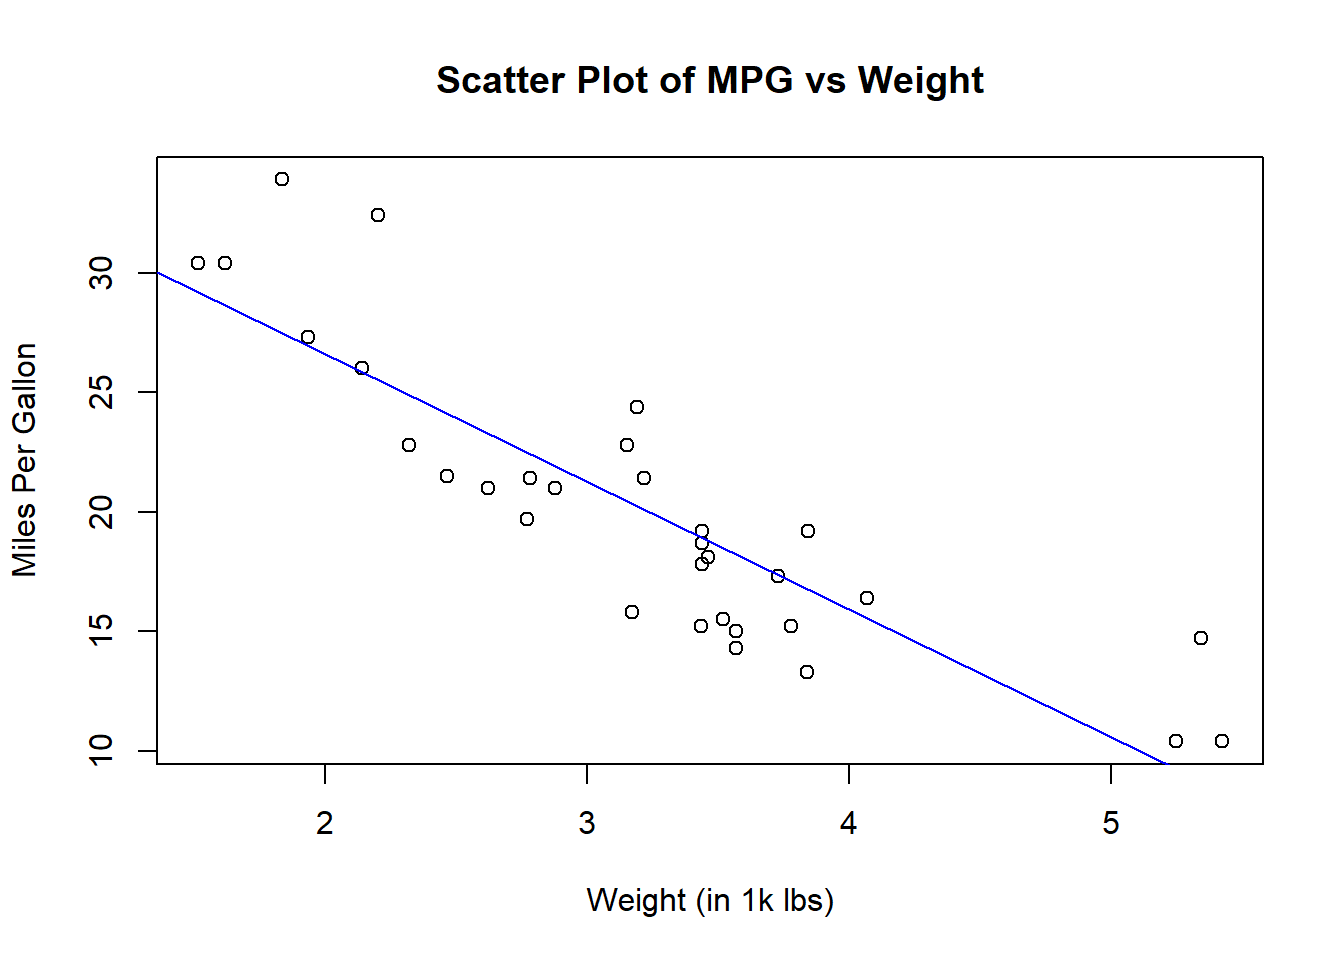
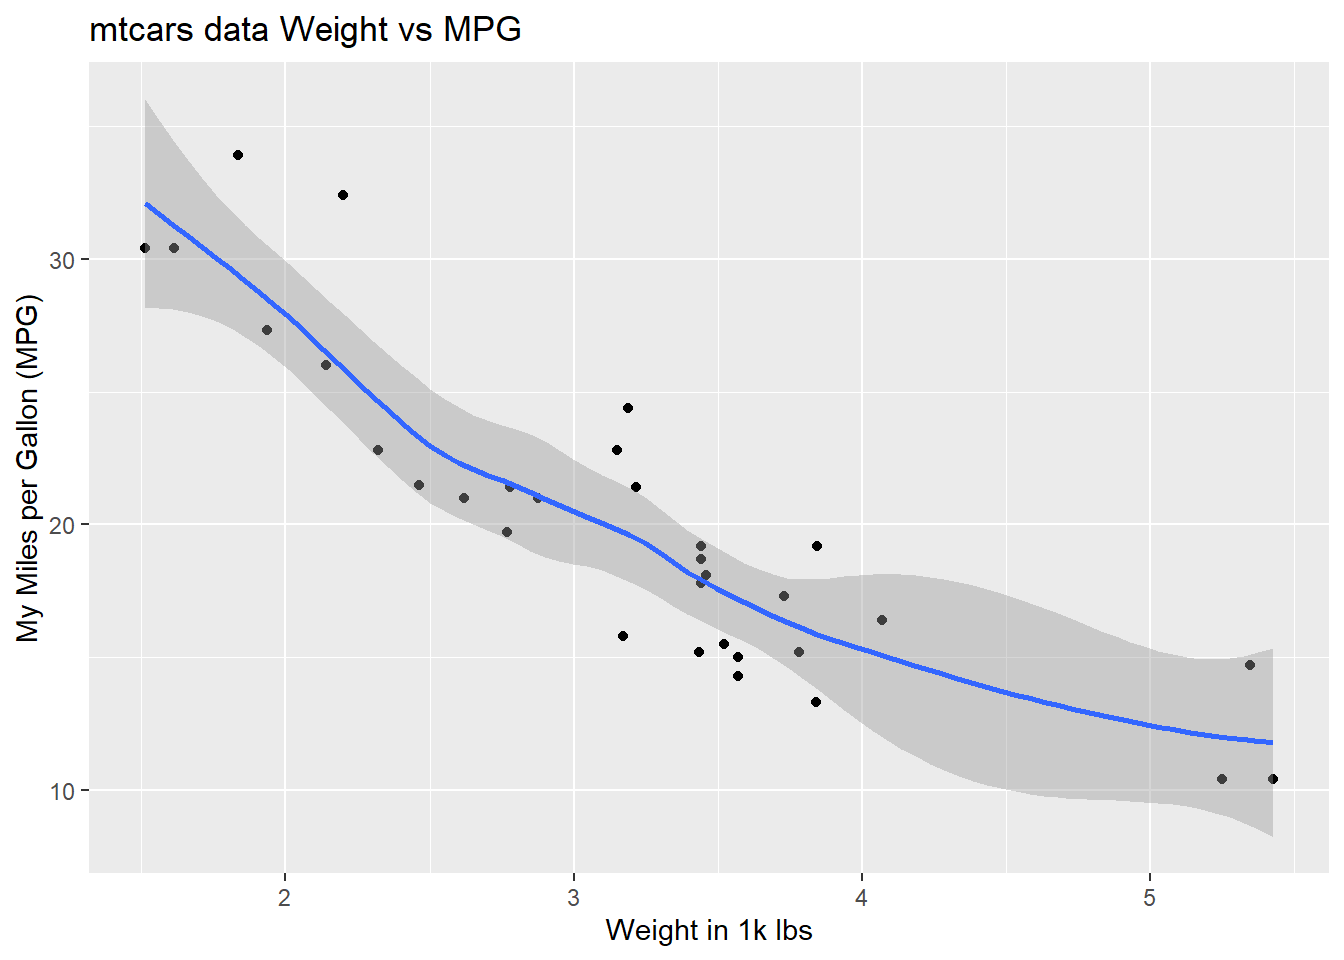
updating blog and various formatting

diff --git a/_site/posts/Starting with EDA/index.html b/_site/posts/Starting with EDA/index.html
@@ -191,32 +191,34 @@ pre > code.sourceCode > span > a:first-child::before { text-decoration: underlin
 
 
 
-<p>Here, you can see common Exploratory Data Analysis functions used to understand various datasets. We will use the preloaded “mtcars” dataset that is already installed with R Studio.</p>
+<p>Here, you can see common Exploratory Data Analysis functions used to understand a datasets. We will use the preloaded “mtcars” dataset that is already installed with R Studio.</p>
 <p>The “mtcars” dataset is comprised of 32 automobile models for the year 1973 -1974 with charactersits such as fuel consumption, horsepower and much more (1974 US Motor Trend magazine).</p>
-<p>It is always best practice to load your libraries upfront, we will use ggplot2 for visualizations and</p>
+<p><strong>Best Practices</strong></p>
+<p>It is always best practice to load your libraries upfront, we will use ggplot2 for visualizations. The comment (# or hashtag) should be used to help document workflows and explain code in more detail</p>
 <div class="cell">
-<div class="sourceCode cell-code" id="cb1"><pre class="sourceCode r code-with-copy"><code class="sourceCode r"><span id="cb1-1"><a href="#cb1-1" aria-hidden="true" tabindex="-1"></a><span class="fu">library</span>(ggplot2)</span></code><button title="Copy to Clipboard" class="code-copy-button"><i class="bi"></i></button></pre></div>
+<div class="sourceCode cell-code" id="cb1"><pre class="sourceCode r code-with-copy"><code class="sourceCode r"><span id="cb1-1"><a href="#cb1-1" aria-hidden="true" tabindex="-1"></a><span class="co">#this is a comment</span></span>
+<span id="cb1-2"><a href="#cb1-2" aria-hidden="true" tabindex="-1"></a></span>
+<span id="cb1-3"><a href="#cb1-3" aria-hidden="true" tabindex="-1"></a><span class="co">#load ggplot2 library</span></span>
+<span id="cb1-4"><a href="#cb1-4" aria-hidden="true" tabindex="-1"></a><span class="fu">library</span>(ggplot2)</span></code><button title="Copy to Clipboard" class="code-copy-button"><i class="bi"></i></button></pre></div>
 </div>
 <p><br>
-</p>
+The steps below will outline a walk through to better understand the mtcars dataset.</p>
 <ol type="1">
-<li><p>Using the <em>?</em> within R Studio will showcase details of the dataset for you. This can be used for any function, not just EDA.</p>
+<li><p>Using the <em>?</em> within R Studio will showcase details of the dataset for you. The question mark, <em>?</em>, can be used to inspect any function (or preloaded dataset) inside R Studio.</p>
 <div class="cell">
-<div class="sourceCode cell-code" id="cb2"><pre class="sourceCode r code-with-copy"><code class="sourceCode r"><span id="cb2-1"><a href="#cb2-1" aria-hidden="true" tabindex="-1"></a><span class="co">#ask away!</span></span>
+<div class="sourceCode cell-code" id="cb2"><pre class="sourceCode r code-with-copy"><code class="sourceCode r"><span id="cb2-1"><a href="#cb2-1" aria-hidden="true" tabindex="-1"></a><span class="co">#use the ? to examine the command, such as mtcard dataset in this example</span></span>
 <span id="cb2-2"><a href="#cb2-2" aria-hidden="true" tabindex="-1"></a>?mtcars</span></code><button title="Copy to Clipboard" class="code-copy-button"><i class="bi"></i></button></pre></div>
 <div class="cell-output cell-output-stderr">
 <pre><code>starting httpd help server ... done</code></pre>
 </div>
 </div>
 <p><img src="R1.png" class="img-fluid"></p></li>
-<li><p>Load the data via the <em>data()</em> command</p></li>
+<li><p>Load the data via the <em>data()</em> command. The mtcars dataset is now loaded within R and ready for EDA.</p></li>
 </ol>
 <div class="cell">
 <div class="sourceCode cell-code" id="cb4"><pre class="sourceCode r code-with-copy"><code class="sourceCode r"><span id="cb4-1"><a href="#cb4-1" aria-hidden="true" tabindex="-1"></a><span class="co">#load data</span></span>
 <span id="cb4-2"><a href="#cb4-2" aria-hidden="true" tabindex="-1"></a><span class="fu">data</span>(<span class="st">"mtcars"</span>)</span></code><button title="Copy to Clipboard" class="code-copy-button"><i class="bi"></i></button></pre></div>
 </div>
-<p><br>
-</p>
 <ol start="3" type="1">
 <li>Examine the number of columns <em>ncol()</em> and rows <em>nrows()</em> of the dataset. This can help determine if the dataset will need to be subdivided (via the subset function) for further analysis.</li>
 </ol>
@@ -231,10 +233,10 @@ pre > code.sourceCode > span > a:first-child::before { text-decoration: underlin
 <pre><code>[1] 11</code></pre>
 </div>
 </div>
-<p><br>
+<p>With 32 rows and 11 columns, we can see the dataset is relatively small and is ready for EDA.<br>
 </p>
 <ol start="4" type="1">
-<li><p>Seeing there are 32 rows and 11 columns, we can now use the <em>head()</em> command to view the first few rows</p>
+<li><p>Usee the <em>head()</em> command to view the first few rows</p>
 <div class="cell">
 <div class="sourceCode cell-code" id="cb9"><pre class="sourceCode r code-with-copy"><code class="sourceCode r"><span id="cb9-1"><a href="#cb9-1" aria-hidden="true" tabindex="-1"></a><span class="co">#first few rows</span></span>
 <span id="cb9-2"><a href="#cb9-2" aria-hidden="true" tabindex="-1"></a><span class="fu">head</span>(mtcars)</span></code><button title="Copy to Clipboard" class="code-copy-button"><i class="bi"></i></button></pre></div>
@@ -250,7 +252,7 @@ Valiant           18.1   6  225 105 2.76 3.460 20.22  1  0    3    1</code></pre
 </div>
 <p><br>
 </p></li>
-<li><p>While <em>head()</em> looks at the first few rows, <strong><em>tail()</em></strong> looks at the last.</p></li>
+<li><p>While <em>head()</em> looks at the first few rows, <strong><em>tail()</em></strong> looks at the last. Take a look at the last few rows.</p></li>
 </ol>
 <div class="cell">
 <div class="sourceCode cell-code" id="cb11"><pre class="sourceCode r code-with-copy"><code class="sourceCode r"><span id="cb11-1"><a href="#cb11-1" aria-hidden="true" tabindex="-1"></a><span class="co">#last few rows</span></span>
@@ -266,7 +268,7 @@ Volvo 142E     21.4   4 121.0 109 4.11 2.780 18.6  1  1    4    2</code></pre>
 </div>
 </div>
 <p><br>
-</p>
+Now that the overall dataset size has been examined we can dive into it and learn more about the variables.</p>
 <ol start="6" type="1">
 <li>To find the variable type for each use the <em>str()</em> function to list each class type (string, integer, double, factor etc)</li>
 </ol>
@@ -360,16 +362,18 @@ Volvo 142E     21.4   4 121.0 109 4.11 2.780 18.6  1  1    4    2</code></pre>
 </div>
 <p>Looking at the graph we can see the correlation is negative as the data decreases in MPG as the Weight increases (remember, it was a blue square in the correlation matrix).</p>
 <ol start="11" type="1">
-<li><strong>BONUS</strong>! Let’s add a trend line comparing the two models…</li>
+<li><strong>BONUS</strong>! Let’s add a trend line comparing the two variables. We will use the ggplot function to create a scatterplot and add a smoothed trend line.</li>
 </ol>
 <div class="cell">
-<div class="sourceCode cell-code" id="cb21"><pre class="sourceCode r code-with-copy"><code class="sourceCode r"><span id="cb21-1"><a href="#cb21-1" aria-hidden="true" tabindex="-1"></a><span class="fu">plot</span>(mtcars<span class="sc">$</span>wt, mtcars<span class="sc">$</span>mpg, <span class="at">main =</span> <span class="st">"Scatter Plot of MPG vs Weight"</span>, <span class="at">xlab =</span> <span class="st">"Weight (in 1k lbs)"</span>, <span class="at">ylab =</span> <span class="st">"Miles Per Gallon"</span>)</span>
-<span id="cb21-2"><a href="#cb21-2" aria-hidden="true" tabindex="-1"></a></span>
-<span id="cb21-3"><a href="#cb21-3" aria-hidden="true" tabindex="-1"></a><span class="co"># create linear model</span></span>
-<span id="cb21-4"><a href="#cb21-4" aria-hidden="true" tabindex="-1"></a>model <span class="ot">&lt;-</span> <span class="fu">lm</span>(mtcars<span class="sc">$</span>mpg <span class="sc">~</span> mtcars<span class="sc">$</span>wt)</span>
-<span id="cb21-5"><a href="#cb21-5" aria-hidden="true" tabindex="-1"></a></span>
-<span id="cb21-6"><a href="#cb21-6" aria-hidden="true" tabindex="-1"></a><span class="co"># Add a trendline to the scatterplot, color blue to match previous graphic</span></span>
-<span id="cb21-7"><a href="#cb21-7" aria-hidden="true" tabindex="-1"></a><span class="fu">abline</span>(model, <span class="at">col =</span> <span class="st">"blue"</span>)</span></code><button title="Copy to Clipboard" class="code-copy-button"><i class="bi"></i></button></pre></div>
+<div class="sourceCode cell-code" id="cb21"><pre class="sourceCode r code-with-copy"><code class="sourceCode r"><span id="cb21-1"><a href="#cb21-1" aria-hidden="true" tabindex="-1"></a><span class="fu">ggplot</span>(<span class="at">data =</span> mtcars, <span class="at">mapping =</span> <span class="fu">aes</span>(<span class="at">x =</span> mtcars<span class="sc">$</span>wt, <span class="at">y =</span> mtcars<span class="sc">$</span>mpg)) <span class="sc">+</span></span>
+<span id="cb21-2"><a href="#cb21-2" aria-hidden="true" tabindex="-1"></a>          <span class="fu">geom_point</span>() <span class="sc">+</span></span>
+<span id="cb21-3"><a href="#cb21-3" aria-hidden="true" tabindex="-1"></a>          <span class="fu">geom_smooth</span>() <span class="sc">+</span>   </span>
+<span id="cb21-4"><a href="#cb21-4" aria-hidden="true" tabindex="-1"></a>          <span class="fu">xlab</span>(<span class="st">"Weight in 1k lbs"</span>) <span class="sc">+</span></span>
+<span id="cb21-5"><a href="#cb21-5" aria-hidden="true" tabindex="-1"></a>          <span class="fu">ylab</span>(<span class="st">"My Miles per Gallon (MPG)"</span>) <span class="sc">+</span></span>
+<span id="cb21-6"><a href="#cb21-6" aria-hidden="true" tabindex="-1"></a>          <span class="fu">ggtitle</span>(<span class="st">"mtcars data Weight vs MPG"</span>)</span></code><button title="Copy to Clipboard" class="code-copy-button"><i class="bi"></i></button></pre></div>
+<div class="cell-output cell-output-stderr">
+<pre><code>`geom_smooth()` using method = 'loess' and formula = 'y ~ x'</code></pre>
+</div>
 <div class="cell-output-display">
 <p><img src="index_files/figure-html/unnamed-chunk-12-1.png" class="img-fluid" width="672"></p>
 </div>

diff --git a/_site/blogs.html b/_site/blogs.html
@@ -178,7 +178,7 @@ ul.task-list li input[type="checkbox"] {
 
 <div class="quarto-listing quarto-listing-container-default" id="listing-listing">
 <div class="list quarto-listing-default">
-<div class="quarto-post image-right" data-index="0" data-categories="R,code,EDA,visualization" data-listing-date-sort="1701583200000" data-listing-file-modified-sort="1701919074650" data-listing-date-modified-sort="NaN" data-listing-reading-time-sort="3">
+<div class="quarto-post image-right" data-index="0" data-categories="R,code,EDA,visualization" data-listing-date-sort="1701583200000" data-listing-file-modified-sort="1701921782098" data-listing-date-modified-sort="NaN" data-listing-reading-time-sort="4">
 <div class="thumbnail">
 <p><a href="./posts/Starting with EDA/index.html"> <img src="./posts/Starting with EDA/image.jpg" class="thumbnail-image"> </a></p>
 </div>
@@ -207,7 +207,7 @@ visualization
 </div>
 <a href="./posts/Starting with EDA/index.html">
 <div class="listing-description">
-Here…
+Here, you can see common Exploratory Data Analysis functions used to understand a datasets. We will use the preloaded “mtcars” dataset that is already installed with R Studio.
 </div>
 </a>
 </div>
